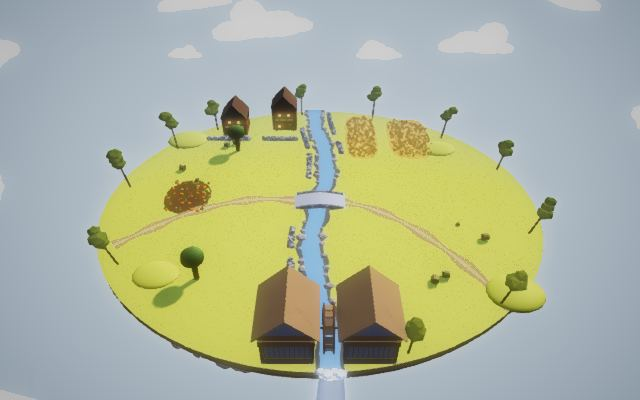
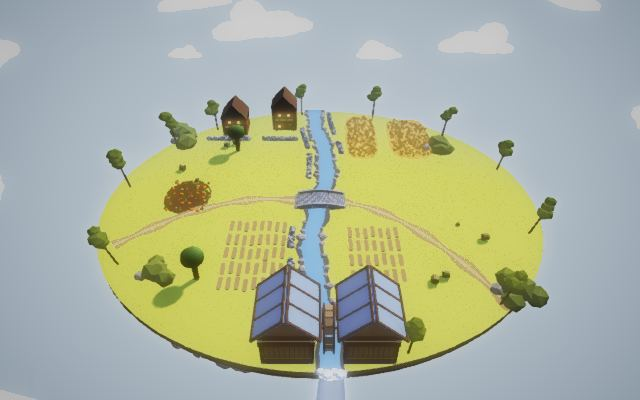
loop(562): maps_1+maps_2 8/8 gaps approved
farmer_1 done (CONFIRM passed a); maps_2 audited (7 item files); thumbnail for farmer_1.

diff --git a/loop/STATE.md b/loop/STATE.md
@@ -1,5 +1,5 @@
 # Loop state (v10: maps then stages; two batch audits merged; up to 9 structural/rebuild gaps + 1 eligible polish; fresh CONFIRM before done)
-Iteration: 561   Batch: maps_1   Consecutive empty: 0   Done: 1/99   Parked: 0
+Iteration: 562   Batch: maps_1+maps_2   Consecutive empty: 0   Done: 2/99   Parked: 0
 Batches, in order: maps_1, maps_2, maps_3, maps_4, stages_introduction, stages_adventure, stages_challenge, stages_dynasty, stages_renaissance, stages_pirate, stages_spooky, stages_simulation, stages_wild_west, stages_legacy, stages_fantasy_good, stages_fantasy_evil
 <!-- Item file template, loop/items/<id>.md (map: map.<id>; stage: <campaign>.<level>):
 # <id>
@@ -16,8 +16,8 @@ c ...
 Marks below: one per criterion a b c (+ pass, - fail, ? unscored); map a look, b layout, c play; stage a army, b formation, c battle. -->
 
 ## Scoreboard (a b c as + pass, - fail, ? unscored; status q queued, o open, D done, p parked)
-maps_1: tribal_1 +++ D | tribal_2 --+ o | tribal_sandbox --+ o | farmer_1 -++ o (a plateau) | farmer_2 -++ o (a plateau) | farmer_snow --+ o
-maps_2: medieval_1 ??? q | medieval_2 ??? q | ancient_1 ??? q | ancient_2 ??? q | ancient_sandbox ??? q | viking ??? q | viking_sandbox ??? q
+maps_1: tribal_1 +++ D | tribal_2 +-+ o | tribal_sandbox +-+ o | farmer_1 +++ D | farmer_2 -++ o (a plateau) | farmer_snow --+ o
+maps_2: medieval_1 --+ o | medieval_2 --+ o | ancient_1 --+ o | ancient_2 --+ o | ancient_sandbox --+ o | viking --+ o | viking_sandbox --+ o
 maps_3: dynasty ??? q | renaissance ??? q | pirate ??? q | spooky_1 ??? q | spooky_2 ??? q | wild_west ??? q | legacy ??? q
 maps_4: fantasy_good ??? q | fantasy_evil ??? q | simulation ??? q | bridge ??? q | hill ??? q | corridor ??? q | defend_the_castle ??? q | high_ground ??? q | low_ground ??? q
 stages_introduction: clubs ??? q | army ??? q | hay_and_pitchforks ??? q | basic_formation ??? q | ice_archers_only_almost ??? q | longships ??? q
@@ -33,34 +33,32 @@ stages_legacy: siege ??? q | a_tank ??? q | the_war ??? q | thor_s_battle ??? q
 stages_fantasy_good: colossal_spike ??? q | royal_archers ??? q | clash_of_warriors ??? q | chaotic_cavalry ??? q | vicious_terror ??? q | fortified_formation ??? q
 stages_fantasy_evil: encircling_tribe ??? q | raze_the_homestead ??? q | farmer_uprising_evil ??? q | storm_the_fortress ??? q | blasted_skirmish ??? q | dismantle_the_spears ??? q
 
-## Focus (iter 561: maps_1, 9 [S]; BASE 88bbb07c)
-- [S] map.farmer_2.a blocker 1 warm earth bowl with pale stones (037cd776, 4b5e0fae) APPROVE, struck 1
-- [S] map.farmer_2.a blocker 2 olive crowns on the oaks (b382569f, ceafd4a0, 0792aa93) APPROVE, struck 2
-- [S] map.farmer_1.a blocker 1 blades off river/deck (5f83a159) APPROVE, struck 1
-- [S] map.farmer_1.a blocker 2 humped arched bridge (37c2368f, dc06adf4) APPROVE, struck 2
-- [S] map.farmer_1.a blocker 3 ragged stream + bank boulders (b23c5f33, 48c5b110) APPROVE, kept (course straight)
-- [S] map.tribal_2.a blocker 3 back-left cliff run + front boulder piles (81facedd) APPROVE, struck 3
-- [S] map.tribal_2.b blocker 4 foot rubble line (2a0f2cce) APPROVE, kept (hidden under trees)
-- [S] map.tribal_sandbox.a blocker 5 red shrub clumps (6142c5b2) APPROVE, kept (too small)
-- [S] map.farmer_snow.b blocker 5 houses + watermill (cb41584c) APPROVE, struck 5
-- CONFIRM: farmer_1 a and farmer_2 a failed again (new 4-blocker lists) -> both a plateau ([R] next)
-- 9/9, 6 struck
+## Focus (iter 562: maps_1+maps_2 (tail overlap: maps_2 audited), 1 [R] + 6 [S] + 1 [P]; BASE 8c3be574)
+- [R] map.farmer_1.a blockers 1-4 look rebuild (170c7a00) APPROVE, struck 1-4
+- [S] map.tribal_2.a blocker 6 stone dog shrine (317a5b85) APPROVE, struck 6
+- [S] map.farmer_snow.b blocker 3 round outline, ring thinned (e9d95cfa) APPROVE, struck 3, added 6
+- [S] map.farmer_snow.a blocker 3 bulb strings + Christmas tree (d7b02859) APPROVE, struck 3
+- [S] map.farmer_snow.a blocker 4 dark timber mill + glow fix (23817396, 452f35d3) APPROVE, struck 4
+- [S] map.tribal_2.b blocker 2 round outline, birches to the rim (e08c4278) APPROVE, struck 2
+- [S] map.tribal_sandbox.b blocker 3 rim mesas (22bf0f3a) APPROVE, struck 3
+- [P] map.tribal_sandbox.a blocker 5 shrubs x2.5 (61d4fb96) APPROVE, struck 5
+- CONFIRM: farmer_1 a passed -> farmer_1 D (thumbnail re-rendered)
+- 8/8, 11 struck
 
 ## Last verdicts (critic header lines verbatim)
-GAP: [S] map.farmer_2 (037cd776 + 4b5e0fae) VERDICT: APPROVE CRITERION: map.farmer_2.a FAIL
-GAP: [S] map.farmer_2 (b382569f + ceafd4a0 + 0792aa93) VERDICT: APPROVE CRITERION: map.farmer_2.a PASS
-GAP: [S] map.farmer_1 (5f83a159) VERDICT: APPROVE CRITERION: map.farmer_1.a FAIL
-GAP: [S] map.farmer_1 (37c2368f + dc06adf4) VERDICT: APPROVE CRITERION: map.farmer_1.a FAIL
-GAP: [S] map.farmer_1 (b23c5f33 + 48c5b110) VERDICT: APPROVE CRITERION: map.farmer_1.a FAIL
-GAP: [S] map.tribal_2 (81facedd) VERDICT: APPROVE CRITERION: map.tribal_2.a FAIL
-GAP: [S] map.tribal_2 (2a0f2cce) VERDICT: APPROVE CRITERION: map.tribal_2.b FAIL
-GAP: [S] map.tribal_sandbox (6142c5b2) VERDICT: APPROVE CRITERION: map.tribal_sandbox.a FAIL
-GAP: [S] map.farmer_snow (cb41584c) VERDICT: APPROVE CRITERION: map.farmer_snow.b FAIL
+GAP: [R] map.farmer_1 (170c7a00) VERDICT: APPROVE CRITERION: map.farmer_1.a PASS
+GAP: [S] map.tribal_2 (317a5b85) VERDICT: APPROVE CRITERION: map.tribal_2.a PASS
+GAP: [S] map.farmer_snow (e9d95cfa) VERDICT: APPROVE CRITERION: map.farmer_snow.b FAIL
+GAP: [S] map.farmer_snow (d7b02859) VERDICT: APPROVE CRITERION: map.farmer_snow.a FAIL
+GAP: [S] map.farmer_snow (23817396 + 452f35d3) VERDICT: APPROVE CRITERION: map.farmer_snow.a FAIL
+GAP: [S] map.tribal_2 (e08c4278) VERDICT: APPROVE CRITERION: map.tribal_2.b FAIL
+GAP: [S] map.tribal_sandbox (22bf0f3a) VERDICT: APPROVE CRITERION: map.tribal_sandbox.b FAIL
+GAP: [P] map.tribal_sandbox (61d4fb96) VERDICT: APPROVE CRITERION: map.tribal_sandbox.a PASS
 REGRESSIONS: none
 
 ## Notes for next iteration (max 5 lines)
-- [R] slot: farmer_1.a and farmer_2.a both plateau at 561 (oldest first: take one per iteration; spec each from both CONFIRM lists in its item file).
-- Round outline kit (560): tribal_1/farmer_1/farmer_2 remap base slabs to the ellipse 54 x 48; tribal_2 b2 and farmer_snow b3 are ranked to copy it (own copy per builder).
-- Stage armies on tribal_2/farmer_1/farmer_2 stand in x 2..41, z -26..18 (team 1); a footprint must keep clear or the judge fails c (561 cliffs/piles at 0.9-0.92 of the rim passed).
-- Step-5 capture of 5 maps + 8 stages ran ~10 min in the background; critic and CONFIRM ran in parallel.
-- Autoloop was switched off by the user during 561.
+- [R] slot: farmer_2.a (plateau 561) is next; spec it from both CONFIRM lists in its item file.
+- maps_2 (audited 562): none of its 7 maps has a builder; each first gap is its own tabs/<id>.ts on a SHARED base (campaign.challenge for 5, campaign.adventure for medieval_2: never edit those bases). Pick from maps_1 and maps_2 together.
+- Stage armies on tribal_2/farmer_1/farmer_2 stand in x 2..41, z -26..18 (team 1); a footprint must keep clear or the judge fails c.
+- Critic 562 aside: stage_fantasy_evil.raze_the_homestead_field.png shows a pale grey rectangle behind the island (not in map_farmer_1_top): check it at the maps_1 checkpoint.
+- Step-5 capture of 4 maps + 5 stages ran ~8 min in the background; critic and CONFIRM ran in parallel.

diff --git a/loop/items/map.tribal_2.md b/loop/items/map.tribal_2.md
@@ -1,22 +1,21 @@
 # map.tribal_2
 Status: open   Audited: 555 (AUDIT x2)   Done: -
 ## Verdicts
-a FAIL (561: struck 3): 6. stone dog shrine in map_tribal_2_top.png — TABS: a small shrine with two stone dogs where the mountain runs toward the front (ref: loop/cards/maps/tribal_2.md Overview)
-b FAIL (559: struck 3): 1. right side of the field in map_tribal_2_top.png — TABS: the mountain takes the right third of the island and pushes the open field to a bowl on the left and centre; ours keeps a symmetric open oval (ref: reference/maps/wiki/tribal_2.png) 2. field outline in map_tribal_2_top.png — TABS: a round island with the field running to the ring at the rim; ours is a rounded-rectangle slab with a bare margin outside the tree oval (ref: reference/maps/wiki/tribal_2.png) 4. no boulder rubble line along the mountain foot in map_tribal_2_top — TABS: loose boulders and stones edge the field below the mountain (ref: reference/maps/wiki/tribal_2.png; reference/stages/spooky.cave.png)
-c PASS (561 judge)
+a PASS (562: struck 6)
+b FAIL (562: struck 2): 1. right side of the field in map_tribal_2_top.png — TABS: the mountain takes the right third of the island and pushes the open field to a bowl on the left and centre; ours keeps a symmetric open oval (ref: reference/maps/wiki/tribal_2.png) 4. no boulder rubble line along the mountain foot in map_tribal_2_top — TABS: loose boulders and stones edge the field below the mountain (ref: reference/maps/wiki/tribal_2.png; reference/stages/spooky.cave.png)
+c PASS (562 judge)
 ## Ranked gaps
-1. [S] a — blocker 6: shrine set piece (small stone plinth/gate, two seated stone dogs) at the mountain's front-right foot (keep x >= 41: stages stand at x <= 40)
-2. [S] b — blocker 2: round island outline (ellipse 54 x 48; tribal_1's remap kit, own copy) with the field running to the ring
-3. [P] b — blocker 4: footRubble x 41.5..44.5 -> ~37.5..40.5 so the line shows on the open sand (fallout of 2a0f2cce) — map_tribal_2_top.png
-4. [S] b — blocker 1: mountain mass over the right third — only if the 3 stages' enemy x allow it (they reach x 40; foot is x 45)
+1. [S] b — blocker 1: re-lay BLOCKS/FOOT_X as a broad massif inside rim(), foot x~28-40, field a left/centre bowl — only if the 3 stages' enemy x allow (they reach x 40; move their formations in the stage batch, or keep the foot at x >= 41 and widen it backward/outward)
+2. [S] b — blocker 4: footRubble rebuilt as mid-size faceted boulders plus pale bone-white stones along the foot, on open sand (not under the birches) — ref: reference/stages/spooky.cave.png
 ## Attempts (iter | gap | criterion | verdict)
 555-558 | a: mountain + cave, birch ring, open sky | a | 3 APPROVE, struck 1, 2, 5
-556 | [S] field wall stones cleared (6b645833) | b5 | APPROVE struck 5
-559 | [S] three orange earth tiers + white flecks (8dfa1e8d) | a4 | APPROVE struck 4
-559 | [S] slab rocks, bones, skulls before the cave (688e5790) | b3 | APPROVE struck 3
-561 | [S] back-left cliff run of slab blocks + seven front boulder piles, solid (81facedd) | a3 | APPROVE struck 3
-561 | [S] boulder rubble line along the mountain foot x 41.5..44.5 (2a0f2cce) | b4 | APPROVE (stands: hidden under the tree band)
+556-559 | [S] field walls cleared, earth tiers, slab rocks/bones before the cave | a, b | 3 APPROVE struck b5, a4, b3
+561 | [S] back-left cliff run + front boulder piles (81facedd) | a3 | APPROVE struck 3
+561 | [S] foot rubble line x 41.5..44.5 (2a0f2cce) | b4 | APPROVE (stands: hidden under the tree band)
+562 | [S] stone dog shrine at (43,-29), birches within 8 m cleared (317a5b85) | a6 | APPROVE struck 6
+562 | [S] round outline (power 2 left blending to 3 under the mountain), birches pushed to 0.84-0.93 of the rim (e08c4278) | b2 | APPROVE struck 2
 ## Rejected (last 4)
 ## Notes (max 3 lines)
 - Stages on it: challenge.a_warm_welcome, dynasty.area_of_effect, spooky.cave (team 1 stands at x <= 40).
-- Critic 561: back-left cliff reads as separate slabs (TABS a continuous low stepped ledge wall). Critic 559: cave slabs pale lavender-white.
+- Critic 562: mountain a thin wall on the far right, peak and blocks overhang the slab (blocks at radius 60+); shrine reads as a small white X from the top.
+- a PASS by the critic only: CONFIRM it when the item would be done.

diff --git a/loop/items/map.tribal_sandbox.md b/loop/items/map.tribal_sandbox.md
@@ -1,23 +1,20 @@
 # map.tribal_sandbox
 Status: open   Audited: 555 (AUDIT x2)   Done: -
 ## Verdicts
-a FAIL (559: struck 6): 5. red shrub clumps in map_tribal_sandbox_top.png — TABS: red-orange bushes scattered at tree bases; ours has olive boulder hedges (ref: reference/maps/wiki/tribal_sandbox.png)
-b FAIL (557: struck 4): 1. field size in map_tribal_sandbox_top.png — TABS: a large map, much bigger than Tribal 1/2, with an open centre for large armies; ours is the same small oval as tribal_1 (ref: loop/cards/maps/tribal_sandbox.md Overview; reference/maps/autumn_tribal_sandbox.png) 2. nooks and rock pockets at the edges in map_tribal_sandbox_top.png — TABS: tree-and-rock clusters standing into the field at the edges, which form hiding pockets and raised tops; ours has a smooth tree oval (ref: reference/maps/wiki/tribal_sandbox.png) 3. raised rock tops in map_tribal_sandbox_island.png — TABS: mountain/rock tops at the rim where units can stand; ours has none (ref: loop/cards/maps/tribal_sandbox.md Overview)
-c PASS (561 judge)
+a PASS (562: struck 5)
+b FAIL (562: struck 3): 1. field size in map_tribal_sandbox_top.png — TABS: a large map, much bigger than Tribal 1/2, with an open centre for large armies; ours is the same small oval as tribal_1 (ref: loop/cards/maps/tribal_sandbox.md Overview; reference/maps/autumn_tribal_sandbox.png) 2. nooks and rock pockets at the edges in map_tribal_sandbox_top.png — TABS: tree-and-rock clusters standing into the field at the edges, which form hiding pockets and raised tops; ours has a smooth tree oval (ref: reference/maps/wiki/tribal_sandbox.png)
+c PASS (562 judge)
 ## Ranked gaps
-1. [P] a — blocker 5: redShrubs clump radius x2.5 (fallout of 6142c5b2) — map_tribal_sandbox_top.png
-2. [S] b — blocker 1: larger island and open field — ref: autumn_tribal_sandbox.png
-3. [S] b — blocker 3: raised flat-topped rock outcrops at the rim — map_tribal_sandbox_island.png
-4. [S] b — blocker 2: 2-3 nooks on the left half (back-left, front-left), warm-grey stacked rock pockets with 2-3 birches, 8-12 m into the field
-5. [P] a — SPIRES heights 16-26 -> 9-15 m, distance 64-80 -> 90-110 m, no tip cone (fallout of 2394adb1) — map_tribal_sandbox_ground.png
+1. [S] b — blocker 1: scale the island, ring, nooks and mesas out (~1.4x) so the open centre is much larger than tribal_1's — ref: autumn_tribal_sandbox.png
+2. [S] b — blocker 2 (attempts 2: pickable again only as a new mechanism): replace the lavender boulder heaps with faceted cliff-block outcrops carrying birches, standing into the field — ref: wiki/tribal_sandbox.png
 ## Attempts (iter | gap | criterion | verdict)
 555-558 | a: pillar/outcrop/heap, rim cliffs, birch ring, open sky + spires | a | 4 APPROVE, struck 1-4
-557 | [S] field wall stones cleared (5ef24499) | b4 | APPROVE struck 4
-558 | [S] four horseshoe boulder nooks with birches (5e406f86) | b2 | APPROVE (stands)
-559 | [S] warm grey dodecahedron boulders replace navy stones (a566456e) | a6 | APPROVE struck 6
-559 | [P] nooks 10 m inward, boulders 4.5-7 m (1f72d189) | b2 | APPROVE (stands: left half still smooth)
-561 | [S] crimson + red-orange bumpy shrub clumps at ring birch feet and by nooks/outcrop/heap (6142c5b2) | a5 | APPROVE (stands: clumps too small)
+557-559 | [S] field walls cleared, warm grey boulders | a, b | 2 APPROVE struck b4, a6
+558-559 | [S]+[P] horseshoe boulder nooks, then 10 m inward (5e406f86, 1f72d189) | b2 | 2 APPROVE (stands)
+561 | [S] red shrub clumps (6142c5b2) | a5 | APPROVE (stands: too small)
+562 | [S] three flat-topped rim mesas at 215/300/335 deg with step blocks (22bf0f3a) | b3 | APPROVE struck 3
+562 | [P] shrub radius x2.5, spread x2 (61d4fb96) | a5 | APPROVE struck 5
 ## Rejected (last 4)
 ## Notes (max 3 lines)
-- No stages fought on it. Critic 561: shrubs read as small red pebbles (want nearly a small crown's size).
-- Critic 559: nook rocks are lavender icospheres (warm grey wanted). Critic 558: spires read as obelisks.
+- No stages fought on it. Critic 562: mesas are clean hexagonal prisms (TABS stacked faceted slabs with birches on top); front-right mesa sits in the front tree band.
+- a PASS by the critic only: CONFIRM it when the item would be done. Critic 558: spires read as obelisks.

diff --git a/loop/items/map.farmer_snow.md b/loop/items/map.farmer_snow.md
@@ -1,19 +1,20 @@
 # map.farmer_snow
 Status: open   Audited: 555 (AUDIT x2)   Done: -
 ## Verdicts
-a FAIL (559: struck 6): 3. string lights on the houses in map_farmer_snow_island.png — TABS: warm yellow string lights between the two back houses and on the mill, plus a lit Christmas tree (ref: reference/maps/wiki/farmer_snow.png) 4. snow-capped watermill house in map_farmer_snow_island.png — TABS: the timber watermill house on the left with snowy roofs (ref: reference/maps/farm_snow.png) 5. evergreen grove in map_farmer_snow_top.png — TABS: a group of snowy evergreen pines at the upper right where Farmer 1's hay field is (ref: loop/cards/maps/farmer_snow.md Overview)
-b FAIL (561: struck 5): 3. field outline in map_farmer_snow_top.png — TABS: a round island with the field running to the rim; ours is a rounded-rectangle slab ringed by dense trees (ref: reference/maps/wiki/farmer_snow.png)
-c PASS (561 judge)
+a FAIL (562: struck 3, 4): 5. evergreen grove in map_farmer_snow_top.png — TABS: a group of snowy evergreen pines at the upper right where Farmer 1's hay field is (ref: loop/cards/maps/farmer_snow.md Overview)
+b FAIL (562: struck 3): 6. white snow lump standing out past the island rim in map_farmer_snow_island.png (right end, 1250-1310,480-520) and map_farmer_snow_top.png (lower right, 1150-1240,690-780) — TABS: the snow field ends cleanly at the round rim (ref: reference/maps/wiki/farmer_snow.png)
+c PASS (562 judge)
 ## Ranked gaps
-1. [S] b — blocker 3: round island outline (ellipse 54 x 48; farmer_1's remap kit, own copy, bowl and ice follow) with the side tree ring thinned so the snow runs to the rim
-2. [S] a — blocker 3: warm bulb strings between the back houses (SNOW_HOUSES) and on the mill, a lit cone Christmas tree between the houses, out of fog
-3. [S] a — blocker 4: mill walls dark timber boards with framing, lifted clear of the front hedge line and out of the fog band (it renders washed-out white in the island shot)
-4. [P] a — blocker 5: pineGrove needle emissive 0.35 -> 0.1 (fallout of 2ec1ca47; check the glow/haze too) — map_farmer_snow_top.png
+1. [S] b — blocker 6: in roundSnowIsland find the base mesh drawn at about (+50,-30) (a hill or edge disc, by name) and remap it to islandOutline or hide it with its collider
+2. [S] a — blocker 5: pineGrove rebuilt dense: 12-15 dark-green tiered pines with white tier lines tight at x 15..40, z 18..40, in the glow pass (see LESSONS: glow-excluded meshes wear the snow's glow) and out of the fog
 ## Attempts (iter | gap | criterion | verdict)
 555-558 | river, snow cover, bridge, night sky, pine grove | a, b | 5 APPROVE, struck a1, a2, b1, b2, b4
-559 | [S] deep navy earth bowl, snow-capped stones, spikes + placement slabs hidden (398e8db4, 29cc3e5a) | a6 | APPROVE struck a6, b6
-561 | [S] two snow-roofed timber houses (back rim) + two-halved mill with wheel over the ice (cb41584c) | b5 | APPROVE struck 5
+559 | [S] deep navy earth bowl, snow-capped stones (398e8db4, 29cc3e5a) | a6 | APPROVE struck a6, b6
+561 | [S] two snow-roofed timber houses + two-halved mill (cb41584c) | b5 | APPROVE struck 5
+562 | [S] round outline (ellipse 54 x 48), ring trunks thinned to 1 in 3, grove kept inside (e9d95cfa) | b3 | APPROVE struck 3, added 6
+562 | [S] bulb strings between houses, on house 2 and mill gables, lit Christmas tree (d7b02859) | a3 | APPROVE struck 3
+562 | [S] dark timber mill walls + framing + snow lines; dark buildings kept in the glow pass (23817396, 452f35d3) | a4 | APPROVE struck 4
 ## Rejected (last 4)
 ## Notes (max 3 lines)
-- No stages fought on it. Builder tabs/farmer_snow.ts: own river course, bridge, snowBuildings (houses (-26,36),(-11,39); mill z -41); nightSky restores lights in dispose.
-- Critic 559: bowl middle nearly black, stones only on the flanks. Critic 557/558: snow and ring glow milky white with a haze; grove reads pale grey.
+- No stages fought on it. Builder tabs/farmer_snow.ts: own ice course, bridge, snowBuildings (houses (-26,36),(-11,39); mill z -41), festiveLights; nightSky restores lights in dispose.
+- Critic 562: left/right ring trees still 2-3 deep as pale fogged ghosts; Christmas tree small, half hidden by a dark round tree; mill timber a bit warm/light.

diff --git a/loop/items/map.farmer_1.md b/loop/items/map.farmer_1.md
@@ -1,19 +1,17 @@
 # map.farmer_1
-Status: open   Audited: 555 (AUDIT x2), 560 (CONFIRM: passed b; failed a), 561 (CONFIRM: failed a)   Done: -
+Status: done   Audited: 555 (AUDIT x2), 560 (CONFIRM: passed b; failed a), 561 (CONFIRM: failed a), 562 (CONFIRM: passed a)   Done: 562
 ## Verdicts
-a FAIL plateau (0 since 561, CONFIRM list; second CONFIRM fail): 1. watermill roofs plain tan-brown gables over navy-blue walls in map_farmer_1_island (front centre) and map_farmer_1_top (bottom centre) — TABS: the two mill halves carry blue-grey roof panels framed by timber beams over plank-board walls (ref: reference/maps/wiki/farmer_1.png, lower left) 2. bridge is a smooth pale-grey half-pipe slab with plain rails in map_farmer_1_ground (centre) — TABS: a humped cobbled grey-stone arch with stone parapets (ref: reference/maps/wiki/farmer_1.png, centre) 3. flat pale-lime disc mounds at the rim in map_farmer_1_island (left and right) and map_farmer_1_top (left, back-left, right) — TABS: big faceted olive boulder/bush clumps (ref: reference/maps/wiki/farmer_1.png, left centre and bottom right) 4. no tilled furrow strips anywhere on the field in map_farmer_1_top — TABS: rows of raised tilled strips on both sides of the river in front of the bridge (ref: reference/maps/wiki/farmer_1.png, centre-left and centre-right)
+a PASS (562: [R] struck 1-4; CONFIRM 562)
 b PASS (560: struck 3; CONFIRM 560)
-c PASS (561 judge)
+c PASS (562 judge)
 ## Ranked gaps
-1. [R] a — rebuild the look from both CONFIRM lists (560: water tufts, flat bridge, straight canal; 561: blockers 1-4 above) plus critic 561's straight-course note: mill blue-grey roofs + timber-framed plank walls, cobbled stone deck with block courses, olive faceted boulder/bush clumps replacing the "hill" disc mounds, tilled strip rows either side of the river, riverX one large diagonal S-bend (keep |x| room for zones: hazards follow riverX)
+(done)
 ## Attempts (iter | gap | criterion | verdict)
 555-559 | a: watermill, red houses, meadow + tracks, earth bowl, ruins out + pumpkins | a | 5 APPROVE, struck 1, 3, 5, 6
 555-558 | b: river, bridge, totem out, walls, wheat strips | b | 5 APPROVE, struck 1, 2, 4, 5, 6
-560 | [S] Scots pines; round island; watermill rebuilt (8105869f, 22e0ba71+ba8232f8, d6119113) | a, b | 3 APPROVE struck a4, b3, a2
-561 | [S] blades cleared off river/deck (5f83a159) | a1 | APPROVE struck 1
-561 | [S] humped arched bridge, units drawn on the hump (37c2368f, dc06adf4) | a2 | APPROVE struck 2
-561 | [S] ragged stream edges, bend 1.9/rate 0.1, bank boulders (b23c5f33, 48c5b110) | a3 | APPROVE (kept: course still straight)
+560-561 | [S] pines, round island, mill rebuilt, blades cleared, humped bridge, ragged stream | a, b | 6 APPROVE (a plateau 561)
+562 | [R] look rebuild: slate mill roofs + plank walls, cobbled parapet bridge, olive clumps for the hill discs, tilled beds (170c7a00) | a | APPROVE struck 1-4
 ## Rejected (last 4)
 ## Notes (max 3 lines)
 - Builder tabs/farmer_1.ts on campaign.introduction; river hazard |x - riverX| < 2 (zones |x|>=5); bridgeHeight is the map's drawn height (units ride the hump).
-- Critic 561: deck plain pale grey (want cobbled mid grey ~0.6,0.58,0.55); path flecks on the bridge foot; near bank rocks cool slate in shade.
+- Critic 562 leftovers: slate panels light/glassy, parapets read as curbs from low, beds hard-edged boards; CONFIRM 562: grass flatter lemon than TABS olive-ochre.

diff --git a/loop/items/map.medieval_1.md b/loop/items/map.medieval_1.md
@@ -1,0 +1,14 @@
+# map.medieval_1
+Status: open   Audited: 562 (AUDIT x2)   Done: -
+## Verdicts
+a FAIL (0 since 562): 1. Island underside in map_medieval_1_island is a navy slab hung with black stalactites — TABS: grey-lilac faceted cliff columns with green ledges dropping into the sea (ref: reference/maps/meadow_medieval_1.png) 2. Sea around the island absent in map_medieval_1_island — TABS: island stands in turquoise shallow water (ref: reference/maps/meadow_medieval_1.png) 3. Ring trees in map_medieval_1_ground are uniform small dark-green crowns on pink trunks — TABS: big gnarled oaks with twisted brown trunks and lumpy pale-green crowns (ref: reference/maps/wiki/medieval_1.png) 4. Castle ruins in map_medieval_1_top are one small pinkish block at back-right — TABS: grey stone ruined walls, crenellated segments and a broken pillar-tower with orange cap along the right side (ref: reference/maps/wiki/medieval_1.png) 5. Black monolith with a ball on top in mid-field in map_medieval_1_ground — TABS: no such object; the field holds only grass and flowers (ref: reference/maps/wiki/medieval_1.png) 6. Field dressing in map_medieval_1_ground is flat yellow-olive grass — TABS: lush bushy green grass with orange flower dots (ref: reference/maps/wiki/medieval_1.png)
+b FAIL (0 since 562): 1. Island outline in map_medieval_1_top is one rounded oval — TABS: two cliff plateaus split by a water inlet (ref: reference/maps/meadow_medieval_1.png) 2. Water gorge between the halves absent in map_medieval_1_top — TABS: turquoise inlet cutting into the front of the island between forest and ruins (ref: reference/maps/wiki/medieval_1.png) 3. Bridge linking the two sides absent in map_medieval_1_top — TABS: stone bridge over the gorge (ref: card Overview) 4. Tree ring in map_medieval_1_top is symmetric on both halves — TABS: forest massed on the left half, ruins on the right (ref: card Overview) 5. Ramp down the left side to the door under the bridge absent in map_medieval_1_island — TABS: ramp to the landfall door (ref: card Unlock)
+c PASS (562 judge)
+## Ranked gaps
+1. [S] b — blocker 2: own builder tabs/medieval_1.ts (base campaign.introduction): two cliff plateaus split by a turquoise water gorge, stone bridge across it — ref: meadow_medieval_1.png — ours: map_medieval_1_top.png
+2. [S] a — blocker 4: grey ruined walls and a broken pillar-tower with orange cap on the right half, black monolith removed — ref: reference/stages/wild_west.laughing_knights.png
+3. [S] a — blocker 2: sea plane round the island and the front inlet under the bridge — ref: meadow_medieval_1.png
+## Attempts (iter | gap | criterion | verdict)
+## Rejected (last 4)
+## Notes (max 3 lines)
+- Stages on it: dynasty.catapults, pirate.you_won_t_make_us_walk_the_plank, spooky.turtle, wild_west.laughing_knights, fantasy_good.royal_archers.

diff --git a/loop/items/map.ancient_1.md b/loop/items/map.ancient_1.md
@@ -1,0 +1,13 @@
+# map.ancient_1
+Status: open   Audited: 562 (AUDIT x2)   Done: -
+## Verdicts
+a FAIL (0 since 562): 1. Ground in map_ancient_1_ground is orange autumn grass — TABS: grey paved streets with white seam lines (ref: reference/maps/wiki/ancient_1.png) 2. Whitewashed houses with blue domes absent in map_ancient_1_top — TABS: flat-roof white buildings with blue domes, stairs and planters (ref: reference/maps/wiki/ancient_1.png) 3. Ring in map_ancient_1_top is autumn round trees with dark rocks — TABS: low white city wall with cypress planters (ref: reference/maps/wiki/ancient_1.png) 4. Island underside in map_ancient_1_island is a navy slab with stalactites — TABS: brown rock slab studded with pebbles (ref: reference/maps/greek_ancient_1.png) 5. Hoplite statue on its rock outcrop absent in map_ancient_1_island — TABS: giant spear-and-shield statue at the back (ref: reference/maps/greek_ancient_1.png) 6. Lighthouse absent in map_ancient_1_island — TABS: white tower at the back-left (ref: reference/maps/greek_ancient_1.png)
+b FAIL (0 since 562): 1. Island outline in map_ancient_1_top is a rounded oval — TABS: long rectangle (ref: card Overview) 2. Two narrow streets between building blocks absent in map_ancient_1_top — TABS: two streets 3-4 units wide link the sides (ref: card Overview) 3. Central archway absent in map_ancient_1_top — TABS: archway in the middle of the map (ref: reference/maps/greek_ancient_1.png) 4. Water bay at the statue corner absent in map_ancient_1_top — TABS: blue inlet with rocks at the back-left (ref: reference/maps/wiki/ancient_1.png) 5. Black slabs and a black monolith in the open field in map_ancient_1_battle — TABS: field space is streets between buildings (ref: reference/stages/dynasty.zeus_and_other_folks.png)
+c PASS (562 judge)
+## Ranked gaps
+1. [S] b — blocker 1: own builder tabs/ancient_1.ts (base campaign.challenge, shared by 5 maps: never edit it): rectangular grey-paved slab, two narrow streets between building blocks, central archway — ref: wiki/ancient_1.png
+2. [S] a — blocker 2: whitewashed flat-roof houses with blue domes and rooftop stairs on the street blocks (keep the stage armies' spots clear)
+## Attempts (iter | gap | criterion | verdict)
+## Rejected (last 4)
+## Notes (max 3 lines)
+- Stages on it: introduction.basic_formation, adventure.final_destination_wheelbarrow, dynasty.zeus_and_other_folks, fantasy_evil.blasted_skirmish. Audit 2 also: sky beige haze (want saturated blue).

diff --git a/loop/items/map.medieval_2.md b/loop/items/map.medieval_2.md
@@ -1,0 +1,13 @@
+# map.medieval_2
+Status: open   Audited: 562 (AUDIT x2)   Done: -
+## Verdicts
+a FAIL (0 since 562): 1. Castle in map_medieval_2_top is a small grey keep with blue cone spires — TABS: huge vine-covered crenellated wall with blue banners and an arched wooden gate along the back edge (ref: reference/maps/wiki/medieval_2.png) 2. Ring trees in map_medieval_2_ground are pale white-green lollipop trees — TABS: dark-green lumpy oaks with twisted trunks, clustered at the castle and the corners (ref: reference/maps/wiki/medieval_2.png) 3. Island underside in map_medieval_2_island is a navy slab with black stalactites — TABS: rounded grey-brown earthen underside (ref: reference/maps/meadow_medieval_2.png) 4. Ruined red-roof houses absent in map_medieval_2_top — TABS: collapsed red-roof cottages and a fallen tower at the front-right corner (ref: reference/maps/wiki/medieval_2.png) 5. Grass in map_medieval_2_ground is dark olive-brown — TABS: bright yellow-green meadow (ref: reference/maps/wiki/medieval_2.png)
+b FAIL (0 since 562): 1. Two oval pools in the field centre in map_medieval_2_top — TABS: one pond at the front of the island, with an open field centre (ref: reference/maps/meadow_medieval_2.png) 2. Dirt path network absent in map_medieval_2_top — TABS: pinkish dirt paths branch across the field, the main one running to the castle gate (ref: reference/maps/wiki/medieval_2.png) 3. Brown plank between the pools in map_medieval_2_battle — TABS: no such obstacle (ref: reference/maps/wiki/medieval_2.png) 4. Team zones in map_medieval_2_top are four pads around the pools — TABS: two halves facing across open meadow (ref: reference/stages/challenge.twin_lords.png)
+c PASS (562 judge)
+## Ranked gaps
+1. [S] b — blocker 1: own builder tabs/medieval_2.ts (base campaign.adventure; never edit the base, regression scenarios use it): drop the twin pools and plank, one pond at the front lip, pink dirt paths to the castle gate — ref: wiki/medieval_2.png
+2. [S] a — blocker 1: vine-covered crenellated castle wall with blue banners and an arched gate across the back edge — ref: wiki/medieval_2.png — ours: map_medieval_2_top.png
+## Attempts (iter | gap | criterion | verdict)
+## Rejected (last 4)
+## Notes (max 3 lines)
+- Stages on it: challenge.knights_and_priests, challenge.twin_lords, fantasy_evil.storm_the_fortress. Base is campaign.adventure (regression scenarios).

diff --git a/loop/LESSONS.md b/loop/LESSONS.md
@@ -11,6 +11,7 @@ Read at step 1; one fact a line, merge near cap. The unit phase's rig and dress 
 - Near-black: lit cloth (.08,.06,.07) self-lit .4 rough 1 (unlit/smooth reads plum); by self-lit meshes the glow halo browns it: exclude those from the glow.
 - A world box refreshes only on render: computeWorldMatrix(true) before reading bounds in a per-tick step. bakeCurrentTransformIntoVertices bakes the world matrix: bake, then parent.
 - Flat pieces are closed slabs (a one-sided disc can face away).
+- glow.addExcludedMesh does not make a mesh occlude the glow: a dark mesh left out of the glow pass wears the glow of bright emissive ground behind it as a pale veil (farmer_snow mill read white, 562). Keep dark solids in the pass; exclude only bright/self-lit ones.
 
 ## Capture and probes
 - capture-world.mjs boots like capture.mjs: mulberry32 0x4d4f5642 reseeded at every resetBattle, time only through advanceTime, setup renders at 1/8 size (__setupScale 8). It re-adds body.capture-mode before every shot (the game drops it on loads).
@@ -20,6 +21,7 @@ Read at step 1; one fact a line, merge near cap. The unit phase's rig and dress 
 - Map StandardMaterial greys read lavender-blue in the shots even at (0.6,0.54,0.52) (critic 555 on tribal rocks and farmer walls): a warm grey needs r well over b; check palette.png first.
 - Probes (loop/scripts/probes/) run from repo root; --build after source changes, --noglow for a swatch. They were written for units: read one before trusting it on a map.
 - execSync eats a caret: write sha~1.
+- In-page probe on the dev server (5173): `const B = await import('<the @babylonjs_core.js?v=... URL from performance.getEntriesByType("resource")>'); B.EngineStore.LastCreatedScene` gives the live scene (meshes, materials, multiPickWithRay) after game.loadMapForCapture(id).
 
 ## Maps and stages
 - The sim's ground is flat (body.root at y 0); terrain.ts lifts every dynamic root node by MapBuildResult.height at draw time and recomputes its world matrices after, so battles are identical with or without height (checked on Hill). Map meshes are marked static by trackMapBuild: a map builder seats its own props at groundHeightAt(). Nav and placement still come from zones, obstacles and hazards. An effect whose root sits at the origin with world-placed children is lifted by the height at the origin: give such roots their own position.

diff --git a/loop/LEDGER.md b/loop/LEDGER.md
@@ -3,15 +3,6 @@
 Rows: `file:identifier | value | last iter | verdict | earlier values`. P: no approved reversal within 20 iterations; two failed polish attempts spend a row. S/R replace mechanisms. The unit phase's ledger is `loop/archive/v4/LEDGER.md`.
 
 ## Structural attempts (iter | sha | item.criterion | verdict)
-557 | d588c550 | map.farmer_snow.a | approved
-557 | 2a626789 | map.farmer_1.b | approved
-557 | 41e533fa | map.tribal_1.a | approved
-557 | dd302114 | map.farmer_1.a | approved
-557 | bbba2e12 | map.farmer_2.b | approved
-557 | 748358f1 | map.farmer_2.a | approved
-557 | b4f7e9e0 | map.tribal_2.a | approved
-557 | 5ef24499 | map.tribal_sandbox.b | approved
-557 | d88bbd91 | map.tribal_sandbox.a | approved
 558 | cce131b2 | map.tribal_1.a | approved
 558 | 78418c38 | map.tribal_2.a | approved
 558 | 2394adb1+f9f9f72a | map.tribal_sandbox.a | approved
@@ -47,12 +38,20 @@ Rows: `file:identifier | value | last iter | verdict | earlier values`. P: no ap
 561 | 2a0f2cce | map.tribal_2.b | approved
 561 | 6142c5b2 | map.tribal_sandbox.a | approved
 561 | cb41584c | map.farmer_snow.b | approved
+562 | 170c7a00 [R] | map.farmer_1.a | approved
+562 | 317a5b85 | map.tribal_2.a | approved
+562 | e9d95cfa | map.farmer_snow.b | approved
+562 | d7b02859 | map.farmer_snow.a | approved
+562 | 23817396+452f35d3 | map.farmer_snow.a | approved
+562 | e08c4278 | map.tribal_2.b | approved
+562 | 22bf0f3a | map.tribal_sandbox.b | approved
 
 ## Tuned values
 web/src/map/tabs/farmer_2.ts:wheatField stalk height | 0.5-0.7 m | 557 | approved | 1.0-1.3 m
 web/src/map/tabs/farmer_2.ts:SHEAVES z range, scale | z -36..-16, x1.5 | 558 | approved | z -44..-23, x1
 web/src/map/tabs/tribal_sandbox.ts:NOOKS centres | 10 m further in ((25.8,18.2) (34.1,-4.7) (20.9,-20.9) (4.2,23.2)) | 559 | approved | (34,24) (44,-6) (28,-28) (6,33)
 web/src/map/tabs/tribal_sandbox.ts:rockNooks boulder size | 4.5-7 m | 559 | approved | 3-5.5 m
+web/src/map/tabs/tribal_sandbox.ts:redShrubs ball radius, spread | (0.45-0.8) x2.5, off x2 | 562 | approved | 0.45-0.8 m, off 0.6-1.0 m
 web/src/map/tabs/tribal_1.ts:ISLAND round | 2 (ellipse) | 560 | approved | 3
 web/src/map/tabs/farmer_1.ts:islandOutline power | 2 (ellipse) | 560 | approved | 3
 web/src/map/tabs/farmer_2.ts:PATH.front | -32 | 560 | approved | -44

diff --git a/loop/items/map.ancient_sandbox.md b/loop/items/map.ancient_sandbox.md
@@ -1,0 +1,12 @@
+# map.ancient_sandbox
+Status: open   Audited: 562 (AUDIT x2)   Done: -
+## Verdicts
+a FAIL (0 since 562): 1. Ground in map_ancient_sandbox_ground is orange autumn grass — TABS: green meadow with brown dirt paths (ref: reference/maps/wiki/ancient_sandbox.png) 2. Edge dressing in map_ancient_sandbox_top is autumn trees — TABS: cypresses and white Greek houses with blue-tile walls (ref: reference/maps/wiki/ancient_sandbox.png) 3. Spiral mountain absent in map_ancient_sandbox_island — TABS: tall spiral rock tower at the back (ref: reference/maps/greek_ancient_sandbox.png) 4. Island sides in map_ancient_sandbox_island are a navy slab with stalactites — TABS: terracotta cliffs into the sea (ref: reference/maps/greek_ancient_sandbox.png) 5. Sea absent in map_ancient_sandbox_island — TABS: island in blue water (ref: reference/maps/greek_ancient_sandbox.png) 6. Ruins absent in map_ancient_sandbox_top — TABS: fallen columns and ruined arches (ref: reference/maps/wiki/ancient_sandbox.png)
+b FAIL (0 since 562): 1. Island outline in map_ancient_sandbox_top is a small rounded rectangle — TABS: very large irregular island with cliff terraces (ref: reference/maps/greek_ancient_sandbox.png) 2. Raised terraces with temples at the back edge absent in map_ancient_sandbox_top — TABS: brown-cliffed hills at the far edge (ref: reference/maps/wiki/ancient_sandbox.png) 3. Spiral mountain on the north centreline absent in map_ancient_sandbox_top — TABS: mountain on the centreline (ref: card Overview) 4. Offshore islets absent in map_ancient_sandbox_island — TABS: small islands in the distance (ref: card Overview) 5. Black slabs and monolith in mid-field in map_ancient_sandbox_battle — TABS: wide-open field (ref: reference/maps/wiki/ancient_sandbox.png)
+c PASS (562 judge)
+## Ranked gaps
+1. [S] a — blocker 1: own builder tabs/ancient_sandbox.ts (base campaign.challenge, shared: never edit it): green meadow, terracotta cliffs in a blue sea, spiral mountain on the back centre line — ref: greek_ancient_sandbox.png — ours: map_ancient_sandbox_island.png
+## Attempts (iter | gap | criterion | verdict)
+## Rejected (last 4)
+## Notes (max 3 lines)
+- No stages fought on it.

diff --git a/loop/items/map.ancient_2.md b/loop/items/map.ancient_2.md
@@ -1,0 +1,13 @@
+# map.ancient_2
+Status: open   Audited: 562 (AUDIT x2)   Done: -
+## Verdicts
+a FAIL (0 since 562): 1. Ground in map_ancient_2_ground is orange autumn grass — TABS: bright green lawn with pink and purple flower specks (ref: reference/maps/wiki/ancient_2.png) 2. Temple complex absent in map_ancient_2_island — TABS: tiered beige Greek temples with pediments and statues (ref: reference/maps/greek_ancient_2.png) 3. Ring in map_ancient_2_top is autumn trees — TABS: low beige stone ring wall (ref: reference/maps/wiki/ancient_2.png) 4. Island underside in map_ancient_2_island is a navy slab with stalactites — TABS: round brown earth drum set with grey stones (ref: reference/maps/greek_ancient_2.png) 5. Small beige gate pavilions with cypresses at the wall absent in map_ancient_2_top — TABS: pavilions at left, front and right (ref: reference/maps/wiki/ancient_2.png)
+b FAIL (0 since 562): 1. Island outline in map_ancient_2_top is a rounded rectangle — TABS: circular disc (ref: reference/maps/wiki/ancient_2.png) 2. Temple complex filling the back third absent in map_ancient_2_top — TABS: complex across the back edge (ref: reference/maps/wiki/ancient_2.png) 3. Crossing paths absent in map_ancient_2_top — TABS: beige X-shaped paths across the field (ref: reference/maps/wiki/ancient_2.png) 4. Front gate pavilion on the centre line absent in map_ancient_2_island — TABS: columned gate at the front wall (ref: reference/maps/greek_ancient_2.png) 5. Black slabs and monolith in mid-field in map_ancient_2_battle — TABS: open green field (ref: reference/stages/challenge.zeus.png)
+c PASS (562 judge)
+## Ranked gaps
+1. [S] a — blocker 2: own builder tabs/ancient_2.ts (base campaign.challenge, shared: never edit it): round green disc in a beige ring wall, tiered temple complex across the back third, earth-drum underside — ref: greek_ancient_2.png — ours: map_ancient_2_island.png
+2. [S] b — blocker 3: an X of pale stone paths with one arm to the temple gate — ref: wiki/ancient_2.png
+## Attempts (iter | gap | criterion | verdict)
+## Rejected (last 4)
+## Notes (max 3 lines)
+- Stages on it: challenge.zeus, renaissance.renaissance_vs_ancient_2.
